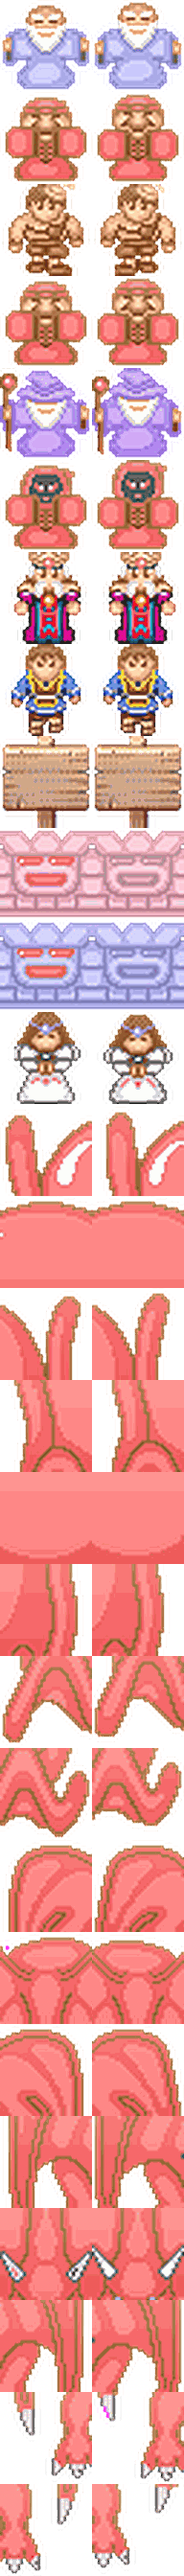
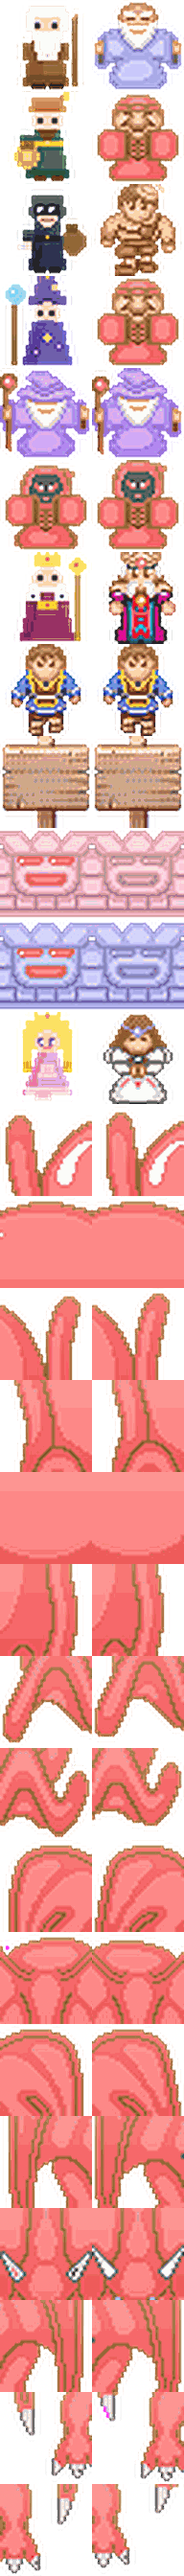
NPC 形象像素重绘：老人/商人/祝福商人/小偷/公主/作者
- tools/gen_npcs.py 从零绘制 32px 专属造型并覆写 npcs 图集对应格子：
  老人白须拄杖、商人头巾钱袋、祝福商人星纹紫袍法杖、
  小偷兜帽眼罩背赃包、公主金发王冠粉裙、作者王冠貂袍权杖
- HD 增强管线 + 量化压缩，地图 NPC 与对话框头像同步生效

Changed region(s): [[0.0, 0.0, 0.5, 0.1562], [0.0625, 0.375, 0.4375, 0.4375], [0.0625, 0.1875, 0.4688, 0.25]]

diff --git a/tools/gen_npcs.py b/tools/gen_npcs.py
@@ -1,0 +1,206 @@
+#!/usr/bin/env python3
+# -*- coding: utf-8 -*-
+"""
+NPC 像素形象重绘器：老人/商人/祝福商人/小偷/公主/作者
+从零绘制 32px 专属造型，HD 增强后覆写到 assets/img-hd/npcs.png 对应格子。
+"""
+import os, importlib.util
+from PIL import Image, ImageDraw
+
+ROOT = os.path.dirname(os.path.dirname(os.path.abspath(__file__)))
+OUT = os.path.join(ROOT, 'assets', 'img-hd')
+spec = importlib.util.spec_from_file_location(
+    'gen_art', os.path.join(ROOT, 'tools', 'gen_art.py'))
+GA = importlib.util.module_from_spec(spec)
+spec.loader.exec_module(GA)
+
+class Px:
+    def __init__(self):
+        self.im = Image.new('RGBA', (32, 32), (0, 0, 0, 0))
+        self.d = ImageDraw.Draw(self.im)
+    def P(self, x, y, c): self.d.point((x, y), fill=tuple(c) + (255,))
+    def R(self, x0, y0, x1, y1, c): self.d.rectangle([x0, y0, x1, y1], fill=tuple(c) + (255,))
+    def E(self, x0, y0, x1, y1, c): self.d.ellipse([x0, y0, x1, y1], fill=tuple(c) + (255,))
+    def poly(self, pts, c): self.d.polygon(pts, fill=tuple(c) + (255,))
+
+SKIN = (252, 218, 182); SKIN_D = (214, 168, 126)
+WHITE = (238, 238, 242); GRAY = (196, 198, 208)
+
+def oldman():
+    """老人：白须白发 + 棕褐长袍 + 木杖"""
+    p = Px()
+    p.R(11, 20, 12, 21, (90, 66, 42))          # 腰带
+    # 长袍（钟形）
+    p.poly([(11, 13), (20, 13), (23, 29), (8, 29)], (142, 100, 62))
+    p.poly([(11, 13), (15, 13), (14, 29), (8, 29)], (122, 84, 52))   # 左阴影
+    p.R(13, 14, 18, 16, (168, 124, 80))        # 胸前高光
+    p.R(9, 26, 22, 29, (110, 76, 46))          # 袍底
+    p.R(11, 29, 15, 30, (60, 50, 44)); p.R(17, 29, 21, 30, (60, 50, 44))  # 鞋
+    # 手臂拢袖
+    p.R(8, 15, 11, 20, (126, 88, 54)); p.R(20, 15, 23, 20, (126, 88, 54))
+    # 头
+    p.E(11, 3, 21, 13, SKIN)
+    p.R(12, 8, 13, 9, (60, 52, 48)); p.R(18, 8, 19, 9, (60, 52, 48))   # 眯眼
+    p.R(12, 7, 13, 7, GRAY); p.R(18, 7, 19, 7, GRAY)                   # 白眉
+    # 白长发 + 大胡子
+    p.R(10, 2, 22, 5, WHITE)
+    p.R(9, 4, 11, 10, WHITE); p.R(21, 4, 23, 10, WHITE)                # 两侧白发
+    p.poly([(11, 11), (21, 11), (19, 20), (13, 20)], WHITE)            # 垂胡
+    p.P(16, 19, GRAY)
+    # 木杖
+    p.R(25, 6, 26, 29, (120, 86, 50)); p.P(25, 6, (160, 120, 72)); p.P(26, 5, (160, 120, 72))
+    return p.im
+
+def trader():
+    """商人：棕色头巾 + 胡商须 + 钱袋 + 绿袍"""
+    p = Px()
+    # 长袍
+    p.poly([(12, 13), (20, 13), (23, 29), (9, 29)], (70, 110, 84))
+    p.poly([(12, 13), (15, 13), (13, 29), (9, 29)], (56, 92, 68))
+    p.R(9, 27, 23, 29, (48, 80, 60))
+    p.R(12, 29, 15, 30, (70, 54, 40)); p.R(18, 29, 21, 30, (70, 54, 40))
+    # 金腰带
+    p.R(11, 17, 21, 18, (226, 180, 70)); p.P(16, 17, (255, 226, 140))
+    # 头 + 头巾
+    p.E(11, 5, 21, 14, SKIN)
+    p.R(13, 9, 14, 10, (58, 50, 46)); p.R(18, 9, 19, 10, (58, 50, 46))  # 眼
+    p.R(12, 6, 20, 6, (150, 96, 44))                                    # 头巾带
+    p.poly([(10, 6), (22, 6), (21, 2), (11, 2)], (176, 118, 54))        # 头巾
+    p.P(21, 1, (176, 118, 54)); p.R(22, 0, 23, 2, (226, 180, 70))       # 巾尾珠
+    p.poly([(13, 13), (19, 13), (17, 16), (15, 16)], (96, 66, 34))      # 短须
+    # 怀抱钱袋
+    p.R(7, 15, 11, 20, (60, 96, 72))                                    # 左臂
+    p.E(5, 18, 13, 26, (206, 168, 96))                                  # 钱袋
+    p.R(7, 17, 11, 19, (150, 112, 52)); p.P(9, 18, (110, 80, 36))
+    p.R(8, 21, 10, 23, (240, 210, 130))                                 # 钱袋$光
+    return p.im
+
+def special_trader():
+    """祝福商人：星纹紫袍 + 尖帽 + 法杖"""
+    p = Px()
+    # 长尖帽
+    p.poly([(11, 8), (21, 8), (18, 0), (13, 0)], (86, 62, 138))
+    p.poly([(13, 0), (18, 0), (17, -0), (15, -1)], (86, 62, 138))
+    p.P(16, 0, (226, 180, 70))
+    p.R(10, 7, 22, 9, (66, 46, 110))                                    # 帽檐
+    p.R(18, 3, 19, 4, (250, 224, 130))                                  # 帽上星
+    # 头
+    p.E(12, 9, 20, 16, SKIN)
+    p.R(13, 12, 14, 13, (48, 42, 66)); p.R(17, 12, 18, 13, (48, 42, 66))
+    p.R(13, 15, 18, 16, (150, 140, 170))                                # 山羊胡
+    # 星纹法袍
+    p.poly([(11, 16), (21, 16), (24, 30), (8, 30)], (96, 70, 156))
+    p.poly([(11, 16), (15, 16), (12, 30), (8, 30)], (78, 56, 130))
+    p.P(16, 20, (250, 224, 130)); p.R(15, 21, 17, 21, (250, 224, 130)); p.P(16, 22, (250, 224, 130))  # 星
+    p.P(12, 26, (206, 190, 250)); p.P(20, 24, (206, 190, 250))
+    # 法杖（发光头）
+    p.R(4, 8, 5, 30, (110, 80, 50))
+    p.E(2, 3, 8, 9, (120, 200, 255)); p.P(4, 5, (240, 250, 255))
+    return p.im
+
+def thief():
+    """小偷：黑兜帽 + 眼罩 +  smirk + 背包裹"""
+    p = Px()
+    # 包裹（背后鼓包）
+    p.E(21, 15, 29, 24, (122, 92, 58)); p.R(23, 14, 26, 16, (90, 66, 40))
+    # 黑衣身
+    p.poly([(12, 14), (20, 14), (22, 29), (10, 29)], (48, 50, 66))
+    p.poly([(12, 14), (15, 14), (13, 29), (10, 29)], (38, 40, 54))
+    p.R(12, 18, 20, 19, (26, 28, 40))                                   # 腰带
+    p.P(16, 18, (226, 180, 70))
+    p.R(12, 29, 15, 30, (30, 30, 40)); p.R(17, 29, 20, 30, (30, 30, 40))
+    # 兜帽头
+    p.E(11, 4, 21, 15, (56, 58, 76))                                    # 帽
+    p.poly([(10, 10), (22, 10), (21, 4), (11, 4)], (56, 58, 76))
+    p.E(13, 7, 19, 14, SKIN)                                            # 露脸
+    p.R(12, 7, 20, 10, (24, 24, 34))                                    # 眼罩
+    p.R(13, 8, 14, 9, (230, 230, 240)); p.R(17, 8, 18, 9, (230, 230, 240))  # 眼白
+    p.P(14, 9, (30, 30, 40)); p.P(18, 9, (30, 30, 40))
+    p.R(14, 12, 17, 12, (150, 96, 96))                                  # 坏笑嘴
+    p.P(18, 12, (150, 96, 96))
+    # 撬锁的手
+    p.R(8, 16, 11, 20, (48, 50, 66)); p.R(8, 20, 10, 22, SKIN)
+    p.R(6, 21, 8, 22, (200, 200, 214))                                  # 小刀/工具
+    return p.im
+
+def princess():
+    """公主：金发 + 王冠 + 粉裙洋娃娃"""
+    p = Px()
+    # 王冠
+    p.R(12, 1, 20, 3, (240, 196, 84))
+    p.P(12, 0, (240, 196, 84)); p.P(16, 0, (240, 196, 84)); p.P(20, 0, (240, 196, 84))
+    p.P(16, 1, (240, 110, 130))                                         # 宝石
+    # 金色长卷发
+    p.R(9, 3, 23, 12, (244, 208, 100))
+    p.R(8, 6, 10, 18, (244, 208, 100)); p.R(22, 6, 24, 18, (244, 208, 100))
+    p.R(8, 17, 10, 20, (216, 172, 66)); p.R(22, 17, 24, 20, (216, 172, 66))
+    # 脸
+    p.E(12, 6, 20, 14, SKIN)
+    p.R(13, 9, 14, 11, (120, 90, 150)); p.R(17, 9, 18, 11, (120, 90, 150))  # 紫眸
+    p.P(14, 10, (255, 255, 255)); p.P(18, 10, (255, 255, 255))
+    p.R(15, 12, 17, 12, (226, 130, 150))                                # 唇
+    p.P(13, 11, (250, 170, 180)); p.P(18, 11, (250, 170, 180))          # 腮红
+    # 粉裙（蓬蓬）
+    p.poly([(13, 14), (19, 14), (24, 28), (8, 28)], (244, 156, 190))
+    p.poly([(13, 14), (15, 14), (11, 28), (8, 28)], (222, 126, 164))
+    p.R(9, 26, 23, 28, (250, 190, 214))                                 # 裙摆亮边
+    p.poly([(14, 18), (18, 18), (19, 22), (13, 22)], (250, 190, 214))   # 胸前缎带
+    p.R(15, 29, 17, 30, (250, 190, 214)); p.R(12, 29, 14, 30, (250, 190, 214))
+    return p.im
+
+def king():
+    """作者（国王形象）：王冠 + 紫红长袍 + 白须 + 权杖"""
+    p = Px()
+    p.R(12, 1, 20, 4, (240, 196, 84))
+    p.poly([(12, 1), (14, 1), (13, -1)], (240, 196, 84))
+    p.poly([(15, 1), (17, 1), (16, -1)], (240, 196, 84))
+    p.poly([(18, 1), (20, 1), (19, -1)], (240, 196, 84))
+    p.P(16, 2, (230, 80, 90))
+    # 头 + 白须
+    p.E(11, 5, 21, 14, SKIN)
+    p.R(13, 8, 14, 9, (56, 50, 60)); p.R(18, 8, 19, 9, (56, 50, 60))
+    p.poly([(12, 12), (20, 12), (19, 19), (13, 19)], WHITE)
+    p.R(10, 11, 12, 15, WHITE); p.R(20, 11, 22, 15, WHITE)              # 鬓
+    # 紫红长袍 + 白貂边
+    p.poly([(10, 14), (22, 14), (25, 30), (7, 30)], (140, 58, 96))
+    p.poly([(10, 14), (14, 14), (10, 30), (7, 30)], (116, 46, 82))
+    p.R(9, 14, 13, 16, WHITE); p.R(19, 14, 23, 16, WHITE)               # 貂披肩
+    p.P(11, 15, (60, 52, 60)); p.P(21, 15, (60, 52, 60))                # 黑点
+    p.R(13, 17, 19, 19, (226, 180, 70))                                 # 胸章
+    p.P(16, 18, (230, 80, 90))
+    # 权杖
+    p.R(26, 5, 27, 30, (160, 130, 60)); p.E(24, 2, 29, 7, (240, 196, 84))
+    p.P(26, 4, (230, 80, 90))
+    return p.im
+
+CELLS = {'oldman': oldman(), 'trader': trader(), 'specialTrader': special_trader(),
+         'thief': thief(), 'princess': princess(), 'king': king()}
+
+if __name__ == '__main__':
+    import json
+    data = open(os.path.join(ROOT, 'mota-data.js'), encoding='utf-8').read()
+    import re
+    m = re.search(r'"npcs":\{[^}]*\}', data)
+    idx = json.loads('{'+m.group(0)+'}')['npcs']
+    atlas = Image.open(os.path.join(OUT, 'npcs.png')).convert('RGBA')
+    cell = 96
+    rows = atlas.height // cell      # 28
+    cols = atlas.width // cell       # 2
+    for name, im32 in CELLS.items():
+        i = idx[name]
+        col, row = i // rows, i % rows
+        hd = GA.enhance_cell(im32, 3)
+        atlas.paste(hd, (col * cell, row * cell))
+        print('重绘 NPC:', name, '→ 格子', (col, row))
+    atlas.save(os.path.join(OUT, 'npcs.png'))
+    q = atlas.quantize(colors=256, method=Image.FASTOCTREE)
+    q.save(os.path.join(OUT, 'npcs.png'), optimize=True)
+    # 预览
+    prev = Image.new('RGBA', (len(CELLS) * 100, 108), (34, 36, 52, 255))
+    for i, name in enumerate(CELLS):
+        i2 = idx[name]
+        c, r = i2 // rows, i2 % rows
+        prev.alpha_composite(atlas.crop((c * cell, r * cell, c * cell + cell, r * cell + cell)),
+                             (i * 100 + 2, 6))
+    prev.convert('RGB').save('/tmp/npc_preview.png')
+    print('预览: /tmp/npc_preview.png')

diff --git a/README.md b/README.md
@@ -55,6 +55,12 @@ python3 -m http.server 8872
 | 我爱罗 | 砂隐红袍 + 爱之额印 |
 | 日向雏田 | 淡紫外套 + 姬发式蓝发 |
 
+## NPC 形象重绘
+
+六位主要 NPC 同样从零像素重绘（`tools/gen_npcs.py`），地图与对话头像同步生效：
+老人（白须拄杖）、商人（头巾钱袋）、祝福商人（星纹紫袍法杖）、
+小偷（兜帽眼罩背赃包）、公主（金发王冠粉裙）、作者（王冠貂袍权杖）。
+
 皮肤由 `tools/gen_hero_pixel.py` **从零像素重绘**（非换色）：每个角色拥有
 专属的体型、发型轮廓、服装版型与配饰（护额/面罩/护腿/额印），
 行走动画为**火影跑**——侧面身体前倾、双臂后摆、大步幅；
